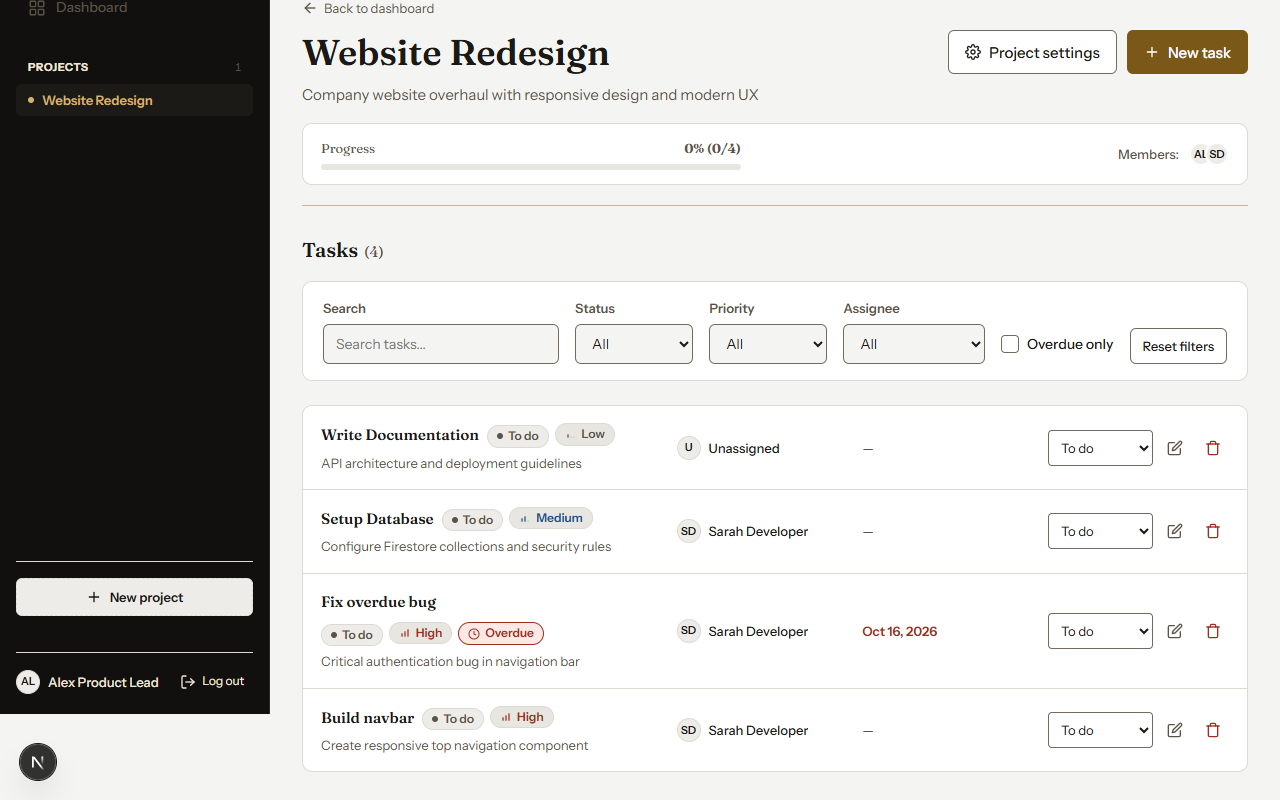
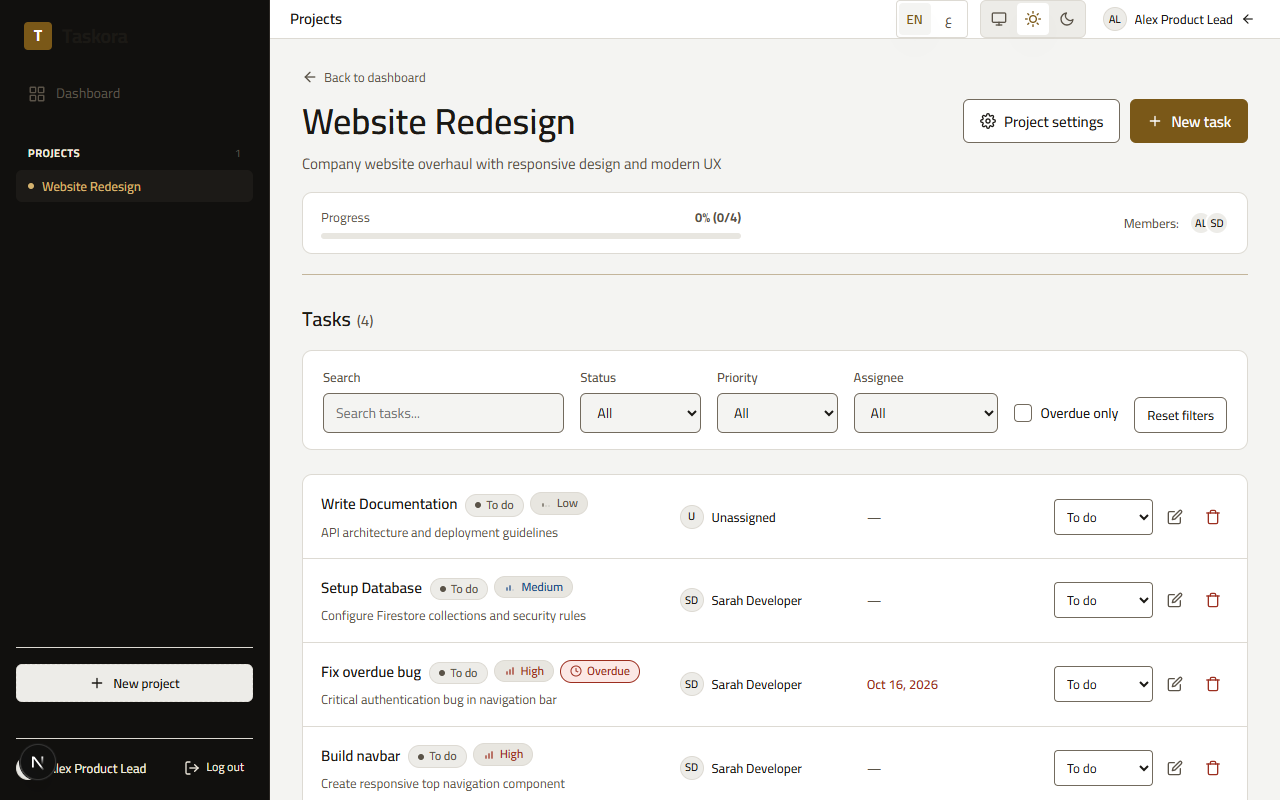
feat: fixed sidebar on scroll and cairo font across project

diff --git a/tests/e2e/taskflow.spec.ts b/tests/e2e/taskflow.spec.ts
@@ -64,7 +64,7 @@ test.describe('TaskFlow Acceptance & E2E Test Suite (TC-01…TC-16)', () => {
     await page.getByLabel(/password/i).fill(password);
     await page.getByRole('button', { name: /log in|sign in/i }).click();
 
-    await expect(page).toHaveURL(/\/dashboard/);
+    await expect(page).toHaveURL(/\/dashboard/, { timeout: 15000 });
     await expect(page.getByText('Test Owner').first()).toBeVisible();
   });
 
@@ -74,7 +74,7 @@ test.describe('TaskFlow Acceptance & E2E Test Suite (TC-01…TC-16)', () => {
     await page.getByLabel(/email/i).fill(ownerEmail);
     await page.getByLabel(/password/i).fill(password);
     await page.getByRole('button', { name: /log in|sign in/i }).click();
-    await expect(page).toHaveURL(/\/dashboard/);
+    await expect(page).toHaveURL(/\/dashboard/, { timeout: 15000 });
 
     // Create Project
     await page.getByRole('link', { name: /\+ new project/i }).first().click();
@@ -160,7 +160,7 @@ test.describe('TaskFlow Acceptance & E2E Test Suite (TC-01…TC-16)', () => {
     await memberPage.getByLabel(/email/i).fill(memberEmail);
     await memberPage.getByLabel(/password/i).fill(password);
     await memberPage.getByRole('button', { name: /log in|sign in/i }).click();
-    await expect(memberPage).toHaveURL(/\/dashboard/);
+    await expect(memberPage).toHaveURL(/\/dashboard/, { timeout: 15000 });
 
     // Member sees the project
     await expect(memberPage.getByText(`Website Redesign ${timestamp}`).first()).toBeVisible();
@@ -246,7 +246,7 @@ test.describe('TaskFlow Acceptance & E2E Test Suite (TC-01…TC-16)', () => {
     await page.getByLabel(/email/i).fill(ownerEmail);
     await page.getByLabel(/password/i).fill(password);
     await page.getByRole('button', { name: /log in|sign in/i }).click();
-    await expect(page).toHaveURL(/\/dashboard/);
+    await expect(page).toHaveURL(/\/dashboard/, { timeout: 15000 });
 
     const viewports = [
       { width: 375, height: 667 },

diff --git a/src/app/layout.tsx b/src/app/layout.tsx
@@ -1,6 +1,6 @@
 import type { Metadata, Viewport } from 'next';
 import { cookies, headers } from 'next/headers';
-import { Fraunces, Instrument_Sans, Amiri, IBM_Plex_Sans_Arabic } from 'next/font/google';
+import { Cairo } from 'next/font/google';
 import './globals.css';
 import { AuthProviderClient } from '@/components/auth/AuthProviderClient';
 import { parseTheme, THEME_COOKIE } from '@/theme/config';
@@ -10,33 +10,13 @@ import { I18nProvider } from '@/i18n/I18nProvider';
 import { en } from '@/i18n/en';
 import { ar } from '@/i18n/ar';
 
-const fraunces = Fraunces({
-  subsets: ['latin'],
-  display: 'swap',
-  variable: '--f-fraunces',
-});
-
-const instrumentSans = Instrument_Sans({
-  subsets: ['latin'],
-  display: 'swap',
-  variable: '--f-instrument',
-});
-
-const amiri = Amiri({
+const cairo = Cairo({
   subsets: ['arabic', 'latin'],
   display: 'swap',
-  weight: ['400', '700'],
-  variable: '--f-amiri',
+  variable: '--f-cairo',
 });
 
-const ibmPlexSansArabic = IBM_Plex_Sans_Arabic({
-  subsets: ['arabic'],
-  display: 'swap',
-  weight: ['400', '500', '600', '700'],
-  variable: '--f-ibm-plex-arabic',
-});
-
-const fontClasses = `${fraunces.variable} ${instrumentSans.variable} ${amiri.variable} ${ibmPlexSansArabic.variable}`;
+const fontClasses = `${cairo.variable}`;
 
 import { PwaRegister } from '@/components/pwa/PwaRegister';
 

diff --git a/src/app/design-system/page.tsx b/src/app/design-system/page.tsx
@@ -97,10 +97,10 @@ export default function DesignSystemPage() {
           <Card>
             <div style={{ display: 'flex', flexDirection: 'column', gap: 16 }}>
               <div style={{ fontFamily: 'var(--font-display)', fontSize: '2rem', fontWeight: 600 }}>
-                Display Title: Fraunces & Amiri (العنوان والترويسة)
+                Display Title: Cairo (العنوان والترويسة)
               </div>
               <div style={{ fontSize: '1rem', color: 'var(--text)', lineHeight: 1.75 }}>
-                Body Text: Instrument Sans & IBM Plex Sans Arabic (خط القراءة والواجهة النظيف والمريح)
+                Body Text: Cairo (خط القراءة والواجهة النظيف والمريح)
               </div>
               <div className="num" style={{ fontFamily: 'var(--font-display)', fontSize: '2.5rem', color: 'var(--accent)' }}>
                 12,500 · 34 · 98% (Lining & Tabular Numerals)

diff --git a/src/styles/tokens.css b/src/styles/tokens.css
@@ -1,6 +1,6 @@
 :root {
-  --font-display: var(--f-fraunces), var(--f-amiri), serif;
-  --font-body: var(--f-instrument), var(--f-ibm-plex-arabic), system-ui, sans-serif;
+  --font-display: var(--f-cairo), system-ui, sans-serif;
+  --font-body: var(--f-cairo), system-ui, sans-serif;
   --fs-0: .8125rem; --fs-1: .9375rem; --fs-2: 1.0625rem;
   --fs-3: 1.375rem; --fs-4: 1.875rem; --fs-5: 2.75rem; --fs-6: 4rem;
   --lh-tight: 1.15; --lh-body: 1.55; --lh-ar: 1.75;

diff --git a/src/styles/base.css b/src/styles/base.css
@@ -11,7 +11,7 @@ body {
 
 html[lang="ar"] body {
   line-height: var(--lh-ar);
-  font-family: var(--f-ibm-plex-arabic), var(--font-body);
+  font-family: var(--font-body);
 }
 
 h1, h2, h3, h4, h5, h6 {
@@ -27,7 +27,7 @@ html[lang="ar"] h3,
 html[lang="ar"] h4,
 html[lang="ar"] h5,
 html[lang="ar"] h6 {
-  font-family: var(--f-amiri), var(--font-display);
+  font-family: var(--font-display);
 }
 
 :focus-visible {

diff --git a/src/components/shell/AppShell.module.css b/src/components/shell/AppShell.module.css
@@ -21,6 +21,24 @@
   min-inline-size: 0;
 }
 
+@media (min-width: 1024px) {
+  .shell {
+    block-size: 100dvh;
+    max-block-size: 100dvh;
+    overflow: hidden;
+  }
+
+  .desktopSidebar {
+    block-size: 100%;
+    flex-shrink: 0;
+  }
+
+  .mainWrapper {
+    block-size: 100%;
+    overflow-y: auto;
+  }
+}
+
 .mainContent {
   flex: 1;
   inline-size: 100%;
